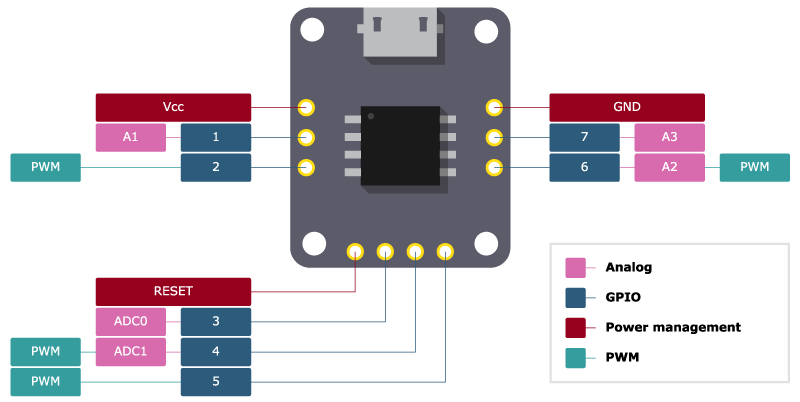
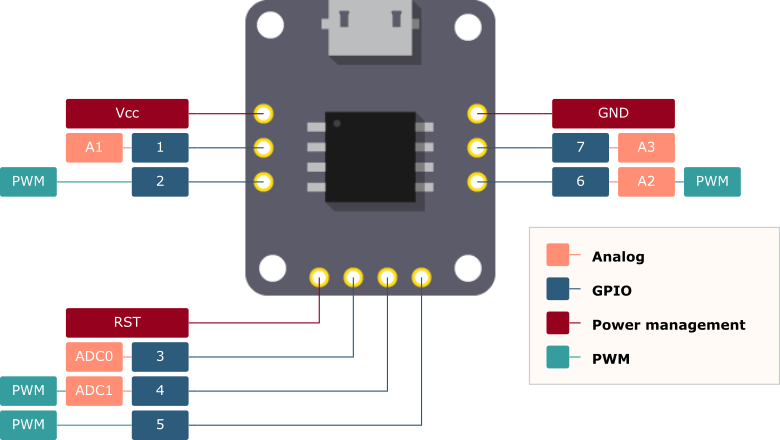
update docs

Changed region(s): [[0.0, 0.0, 1.0, 1.0], [0.6769, 0.5075, 1.0, 0.9552], [0.9846, 0.5075, 1.0, 0.5373]]

diff --git a/pinout/resources/quick_start/quick_start_pinout.py b/pinout/resources/quick_start/quick_start_pinout.py
@@ -1,5 +1,8 @@
 from pinout import diagram
 
+# Custom pinlabel configuration
+long_label_config = {"label": {"rect": {"width": 108}}}
+
 # Pin label information grouped into dicts that render sets of labels
 pin_headers = [
     {
@@ -9,9 +12,9 @@ pin_headers = [
         "pitch": (0, 30),
         "offset": (-58, 0),
         "labels": [
-            [("Vcc", "pwr")],
+            [("Vcc", "pwr", long_label_config)],
             [("1", "gpio"), ("A1", "analog")],
-            [("2", "gpio"), ("PWM", "pwm")],
+            [("2", "gpio"), ("PWM", "pwm", {"offset": (66, 0)})],
         ],
     },
     {
@@ -21,7 +24,7 @@ pin_headers = [
         "pitch": (0, 30),
         "offset": (58, 0),
         "labels": [
-            [("GND", "pwr")],
+            [("GND", "pwr", long_label_config)],
             [("7", "gpio"), ("A3", "analog")],
             [("6", "gpio"), ("A2", "analog"), ("PWM", "pwm")],
         ],
@@ -33,10 +36,10 @@ pin_headers = [
         "pitch": (30, 0),
         "offset": (-107, 40),
         "labels": [
-            [("RST", "pwr")],
+            [("RST", "pwr", long_label_config)],
             [("3", "gpio"), ("ADC0", "analog")],
             [("4", "gpio"), ("ADC1", "analog"), ("PWM", "pwm")],
-            [("5", "gpio"), ("PWM", "pwm")],
+            [("5", "gpio"), ("PWM", "pwm", {"offset": (66, 0)})],
         ],
     },
 ]

diff --git a/pinout/components.py b/pinout/components.py
@@ -106,13 +106,14 @@ class Component(SVG):
         self.children.append(instance)
         return instance
 
-    def patch_config(self, source, patch):
+    @staticmethod
+    def patch_config(source, patch):
         """Recursively update source with patch dict items."""
         try:
             for key, val in patch.items():
                 if type(val) == dict:
                     source.setdefault(key, {})
-                    self.patch_config(source[key], patch[key])
+                    Component.patch_config(source[key], patch[key])
                 else:
                     source[key] = val
         except KeyError:
@@ -328,6 +329,12 @@ class Legend(Component):
 
 
 class Annotation(Component):
+    """Add text with a leaderline styled as an annotation.
+
+    :param text_content: Annotation text
+    :type text_content: String or List
+    """
+
     def __init__(self, text_content, *args, **kwargs):
         super().__init__(*args, **kwargs)
 

diff --git a/pinout/elements.py b/pinout/elements.py
@@ -37,7 +37,7 @@ class SVG:
     :type y: int, optional
     :param scale: Primarily used to define direction of width, height, and coordinates, from an origin. Defaults to (1, 1)
     :type scale: tuple, optional
-    :param rotation:  (***Currently implemented***) Rotation around an origin, defaults to 0
+    :param rotation:  (***Currently NOT implemented***) Rotation around an origin, defaults to 0
     :type rotation: int, optional
     :param tag: Associate an entity for application of predefined attributes/styles, defaults to ""
     :type tag: str, optional
@@ -70,7 +70,8 @@ class SVG:
         # NOTE: set here for override by Component
         self._scale = value
 
-    def extract_scale(self, coords):
+    @staticmethod
+    def extract_scale(coords):
         """Separate and scale information from *coords*.
 
         :param coords: (x, y) coordinates or (width, height) dimensions.

diff --git a/docs/pages/tutorial.rst b/docs/pages/tutorial.rst
@@ -28,9 +28,12 @@ Taking some critical measurements of the hardware image before starting will str
 - **x, y**: Coordinates of the first pin in the header.
 - **pitch**: Distance between each pin of the header. (0, 30) steps 0px right and 30px down for each pin. *TIP*: (30, 0) creates a horizontal header.
 - **offset**: **Relative to the pin's (x, y) coodinates**. Locates the start position for a row of labels.
-- **labels**: Data that documents each label and its position in the header. Each list within 'labels' represents a pin in the header. Each entry within those lists becomes a label.  
+- **labels**: Data that documents each label and its position in the header. Each list within 'labels' represents a pin in the header. Each entry within those lists becomes a label. Label entries must include a 'title', 'tag', and optionally a dict of custom configurations.
 
-These details are documented in a dict. Multiple headers can be grouped into a list for convenient processing later::
+These details are documented in a dict. Multiple headers can be grouped into a list for convenient processing later.Note some labels are demonstrated with customisations::
+    
+    # Custom pinlabel configuration
+    long_label_config = {"label": {"rect": {"width": 108}}}
 
     pin_headers = [
         {
@@ -38,11 +41,11 @@ These details are documented in a dict. Multiple headers can be grouped into a l
             "x": 16,
             "y": 100,
             "pitch": (0, 30),
-            "offset": (-55, 0),
+            "offset": (-58, 0),
             "labels": [
-                [("Vcc", "pwr", (0, 0), 155)],
+                [("Vcc", "pwr", long_label_config)],
                 [("1", "gpio"), ("A1", "analog")],
-                [("2", "gpio"), ("PWM", "pwm", (-100, 0))],
+                [("2", "gpio"), ("PWM", "pwm", {"offset": (66, 0)})],
             ],
         },
         # x2 more headers are included in 'quick_start_pinout.py'
@@ -62,27 +65,22 @@ Create a new diagram
 
 Add a config file
 -----------------
-Many design settings in *pinout* can be overridden by editing properties of a component directly or by supplying a 'default' value via a configuration file. The latter is ideal for consistency across the entire diagram.
+Many design settings in *pinout* can be overridden by supplying properties to component directly or by supplying a 'default' value via a configuration file. The latter is ideal for consistency across the entire diagram.
 
 The configuration file is in YAML format. 'quick_start_config.yaml' demonstrates the format with a few example settings::
 
     diagram.add_config("quick_start_config.yaml") 
 
-Loading the config file should be done before other components are added as values may be referenced at that time.
+Loading the config file should be done before other components are added as values may be referenced at that time. 
 
+.. important::
 
-Add a stylesheet
-----------------
-
-Strictly speaking this step is optional as *pinout* will create a stylesheet for you in the absence of one but relies on some guess work so output may vary. To ensure a predictable outcome add `quick_start_styles.css` to the diagram::
-    
-    diagram.add_stylesheet("quick_start_styles.css", embed=True)
-
+    Tags must be supplied in a YAML config file to apply color coding to pin-labels - no default is provided by *pinout*.
 
 Add an image
 ------------
 
-Adding an image is similar to the stylesheet. The extra arguments are *x*, *y*, *width*, and *height*. All function are documented with more detail in the :ref:`modules` section::
+A width and height must be supplied (*pinout* does no auto detect this dimensions). It is recommended to use images at a **1:1 ratio** to simplify documenting component locations. Optionally 'x' and 'y' attributes can be supplied to position the top-left of the images to more suitable coordinates::
 
     diagram.add_image("quick_start_hardware.png", width=220, height=260, embed=True)
 
@@ -90,9 +88,9 @@ Adding an image is similar to the stylesheet. The extra arguments are *x*, *y*, 
 Add a legend
 ------------
 
-The legend documents pin-label categories. These categories are graphically represented by styles documented in the previously added stylesheet. The first step in creating a legend is to create a list that *tags* category *names*. this list is stored in the configuration file and has already been done for this tutorial in 'quick_start_config.yaml'. All that is left to do is add the graphical representation into the diagram::
+The legend documents pin-label categories. Content to popluate the legend is sourced 'quick_start_config.yaml'. All that is left to do is add the legend, with its coordinates, to the diagram::
 
-    diagram.add_legend(x=260, y=236, tags="legend")
+    diagram.add_legend(x=250, y=200)
 
 
 Create pin labels
@@ -125,10 +123,16 @@ The most convenient method of viewing the newly exported SVG file is with your b
 Next steps
 ----------
 
-This guide has glossed over many argument and configuration definitions. Experimenting with changing values and re-exporting the diagram will quickly reveal their purpose. All function are documented in the :ref:`modules` section.
+This guide has glossed over many attribute and configuration definitions. Experimenting with changing values and re-exporting the diagram will quickly reveal their purpose. All function are documented in the :ref:`modules` section.
 
-Rerunning this guide with no css file added to the diagram will create an auto-generated stylesheet. It makes some educated guesses about approriate styles and is a handy method for 'bootstrapping' a stylesheet for your own diagrams.
+The default config.yaml file can be duplicated and makes a good resource of what attributes can be modified::
 
-Depending on you intended usage, linking (instead of embedding) the stylesheet and/or image might be desirable. Set `embed=False` when adding these components to achieve this outcome. *Note:* When linking, relative URLs for stylesheets and images are relative to the exported diagram file. When embedding these URLs are relative to the current working directory (the directory you run the script from).
+    py -m pinout.file_manager --duplicate config
 
-**TIP:** Embedding the image and styles allows the SVG display correctly in InkScape. This might be an appealing work-flow option for encorporating the diagram into other media.
+Depending on you intended usage, linking (instead of embedding) the image might be desirable. Set `embed=False` when adding an image to achieve this outcome. *Note:* When linking, URLs are relative to the exported diagram file. When embedding these URLs are relative to the current working directory (the directory you run the script from).
+
+**TIP:** Embedding the image allows the SVG display correctly in InkScape. This might be an appealing work-flow option for encorporating the diagram into other media.
+
+A more feature-rich example is also available that extends this tutorial with more varied examples::
+
+    py -m pinout.file_manager --duplicate full_sample

diff --git a/docs/pages/components.rst b/docs/pages/components.rst
@@ -9,11 +9,9 @@ Component
 .. autoclass:: Component
     :show-inheritance:
     
-    Scale has no direct affect on Components but is applied to its direct child **Elements**.
-
     Children should be added via :code:`Component.add`
 
-    Default diagram config settings are accessible via the class variable :code:`Component.conf`.
+    Default diagram config settings are accessible via the class variable :code:`Component.config`.
 
     .. autoproperty:: bounding_coords
 
@@ -27,11 +25,9 @@ Component
 
     .. autoproperty:: add
 
-        If the added child is type :code:`element` the components scale passed to it automatically.
-
     .. automethod:: patch_config
     
-    Used to modify existing config values as they are passed to children
+        Used to modify existing config values as they are passed to children
     
     .. automethod:: render
 
@@ -52,8 +48,12 @@ Diagram
             >>> py -m pinout.file_manager --duplicate config
 
     .. automethod:: add_image
-        
-        Associate a PNG, JPG or SVG formatted image to the diagram. *IMPORTANT*: Image width and height parameters must be supplied for the image to display! *pinout* does not auto-detect these attributes.
+                
+        .. important ::
+            
+            Image width and height parameters must be supplied for the image to display! *pinout* does not auto-detect these attributes. 
+            
+            Using images at a **1:1 ratio** is strongly recommended.
 
         :param path: Path to the image file. *Note*: Where :code:`embed=False` the path is relative to the exported file. Where :code:`embed=True` the path is relative to the current working directory.
         :type path: string
@@ -86,9 +86,11 @@ Legend
 .. autoclass:: Legend
     :show-inheritance:
 
-*Note*: *pinout* does not calculate text widths. a manually provided with should be included to ensure text remains enclosed within the legend.    
+*Note*: *pinout* does not calculate text widths. A manually provided width may be required to ensure text remains enclosed within the legend.
 
 Annotation
 ----------
 
 .. autoclass:: Annotation
+
+    An alternative method to 'label' a diagram, suitable for highlighting hardware details.  

diff --git a/docs/pages/elements.rst b/docs/pages/elements.rst
@@ -9,7 +9,7 @@ SVG
 
 .. autoclass:: SVG
 
-    *NOTE*: :code:`self.cfg` is a local config used for customising appearance on a per-instance level. this config may, in part, be passed onto children. 
+    *NOTE*: :code:`self.config` is a local config used for customising appearance on a per-instance level. this config may, in part, be passed onto children. 
 
     .. autoproperty:: scale
 
@@ -18,7 +18,11 @@ SVG
 
     .. automethod:: extract_scale
 
-        Scale and coordinates (or dimensions) can be defined by users as a combined attribute - such as *offset* in PinLabel - but are stored and processed as two separate values when rendering the SVG. *extract_scale* stores the scale as a attribute and returns the *coords* with as values. **NOTE**: Existing scale property is only overridded if the provided coords include a negative value.
+        Scale and coordinates (or dimensions) can be defined by users as a combined attribute - such as *offset* in PinLabel - but are stored and processed as two separate values when rendering the SVG. *extract_scale* extracts the scale - a tuple of +/-1 representing direction - and converts the coordinates to absolute values. For example::
+        
+            >>> value, scale = extract_scale((-5, 30))
+            >>> value == (5, 30)
+            >>> scale == (-1, 1) 
 
 
 Element
@@ -45,7 +49,7 @@ Image
 .. autoclass:: Image
     :show-inheritance:
 
-    *IMPORTANT*: Image width and height parameters must be supplied for the image to display! *pinout* does not auto-detect these attributes.
+    *IMPORTANT*: Image width and height parameters must be supplied for the image to display! *pinout* does not auto-detect these attributes. Using images at a **1:1 ratio** is strongly recommended.
     
     Where :code:`embed=False` the path is relative to the exported file. Where :code:`embed=True` the path is relative to the current working directory.
 

diff --git a/docs/pages/install.rst b/docs/pages/install.rst
@@ -20,17 +20,16 @@ Using a virtual environment is recommended; Start by installing the *pinout* pac
 Quickstart
 ----------
 
-.. image:: _static/quick_start_diagram.*
+.. image:: /_static/quick_start_diagram.*
 
 This guide makes use of a hardware image, stylesheet, and configuration file. The latter two are optional but included to demonstrate features and ensure a consistent result. Sample files are included with the package and can be duplicated for your use. Open a command line in the location you plan to work and enter the following::
 
     py -m pinout.file_manager --duplicate quick_start
 
     # expected output:
-    # >>> quick_start_hardware.png duplicated.
     # >>> quick_start_config.yaml duplicated.
+    # >>> quick_start_hardware.png duplicated.
     # >>> quick_start_pinout.py duplicated.
-    # >>> quick_start_styles.css duplicated.
 
 *Spoiler Alert*: 'quick_start_pinout.py' is a completed script that duplicates the code in this guide. Running it will create a sample SVG pinout diagram - identical to the one pictured here - that can be viewed in your browser.
 
